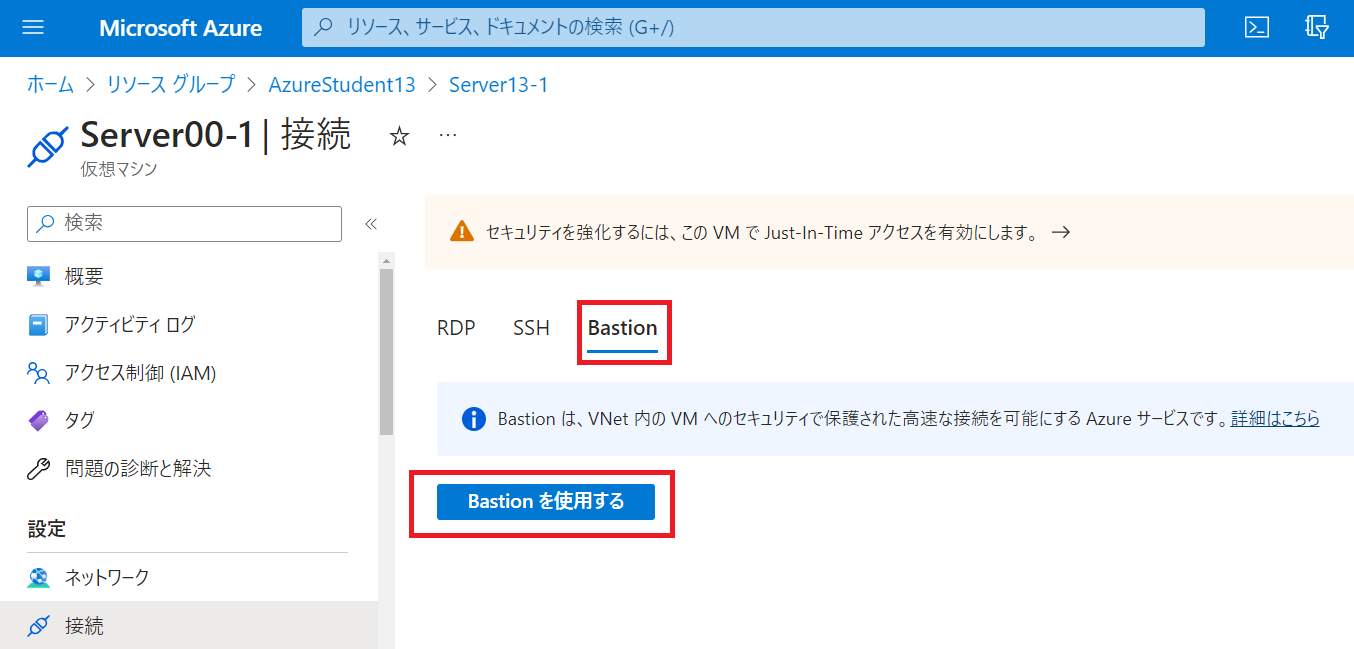
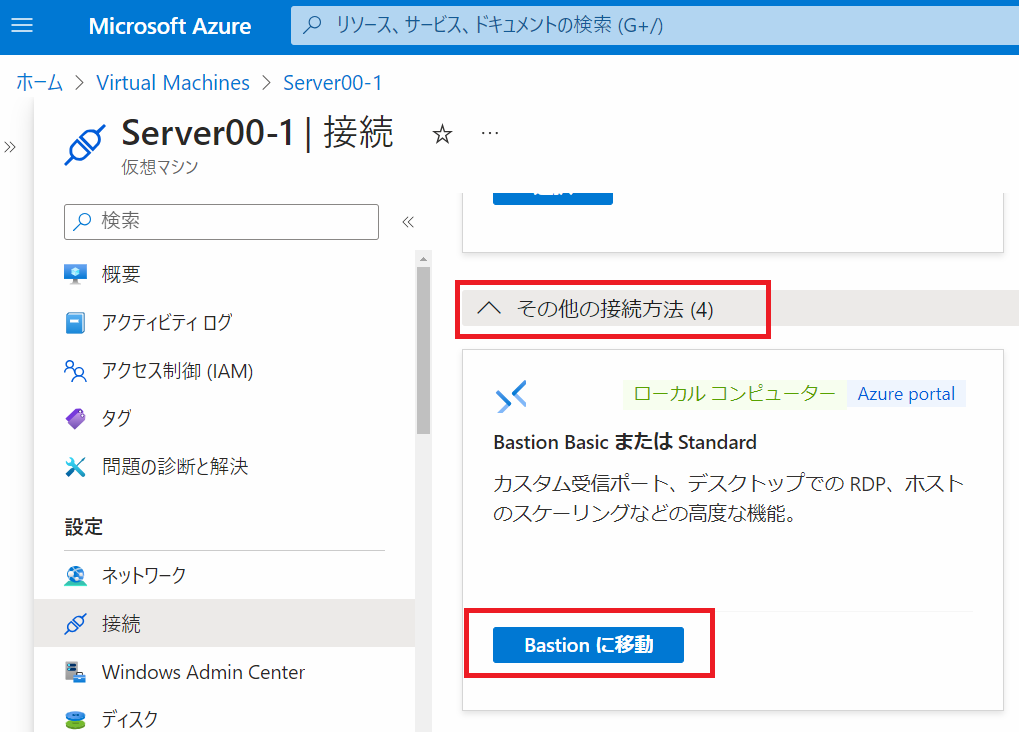
update

diff --git a/LabManual/Lab01_02_Access_Virtual_Machine_Bastion.md b/LabManual/Lab01_02_Access_Virtual_Machine_Bastion.md
@@ -13,11 +13,11 @@ lab:
 
 1. 仮想マシンブレードで「**接続**」クリックします。。
 
-    ![AZ900_Lab1_Bastion_01](./media/AZ900_Lab1_Bastion_01.png)
+    ![AZ900_Lab1_Bastion_01](./media/AZ900_Lab1_16.png)
 
     
 
-2. 仮想マシンの接続ブレードで「**Bastion**」のタブを選択し、**「Bastionを使用する」→「Bastionのデプロイ」**の順にクリックします。
+2. 仮想マシンの接続ブレードで「**その他の接続方法**」を展開し、**「Bastionに移動」→「Bastionのデプロイ」**の順にクリックします。
 
     ![AZ900_Lab1_Bastion_02](./media/AZ900_Lab1_Bastion_02.png)
 
